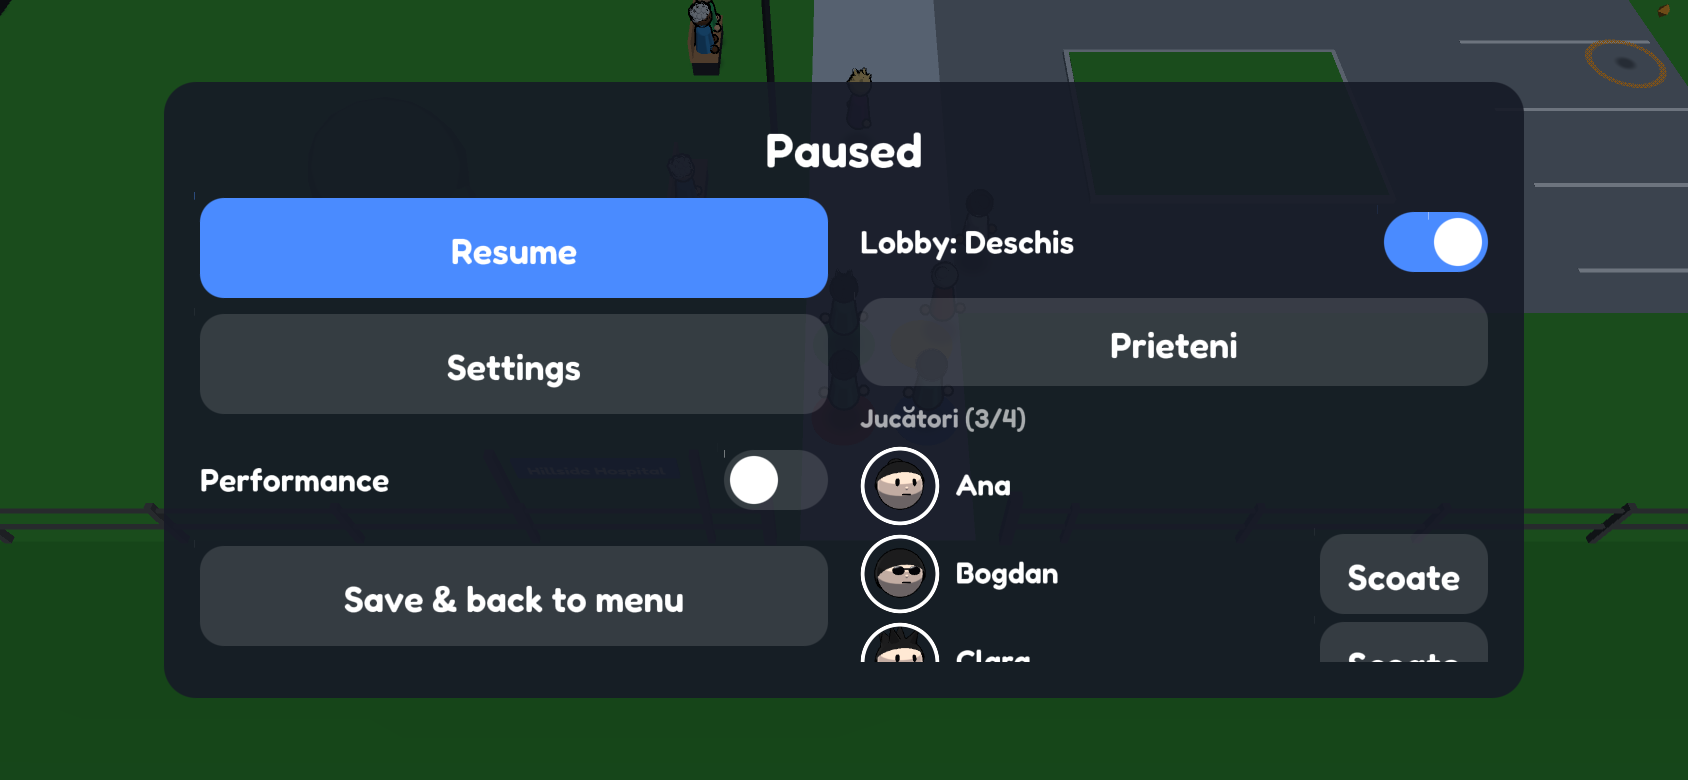
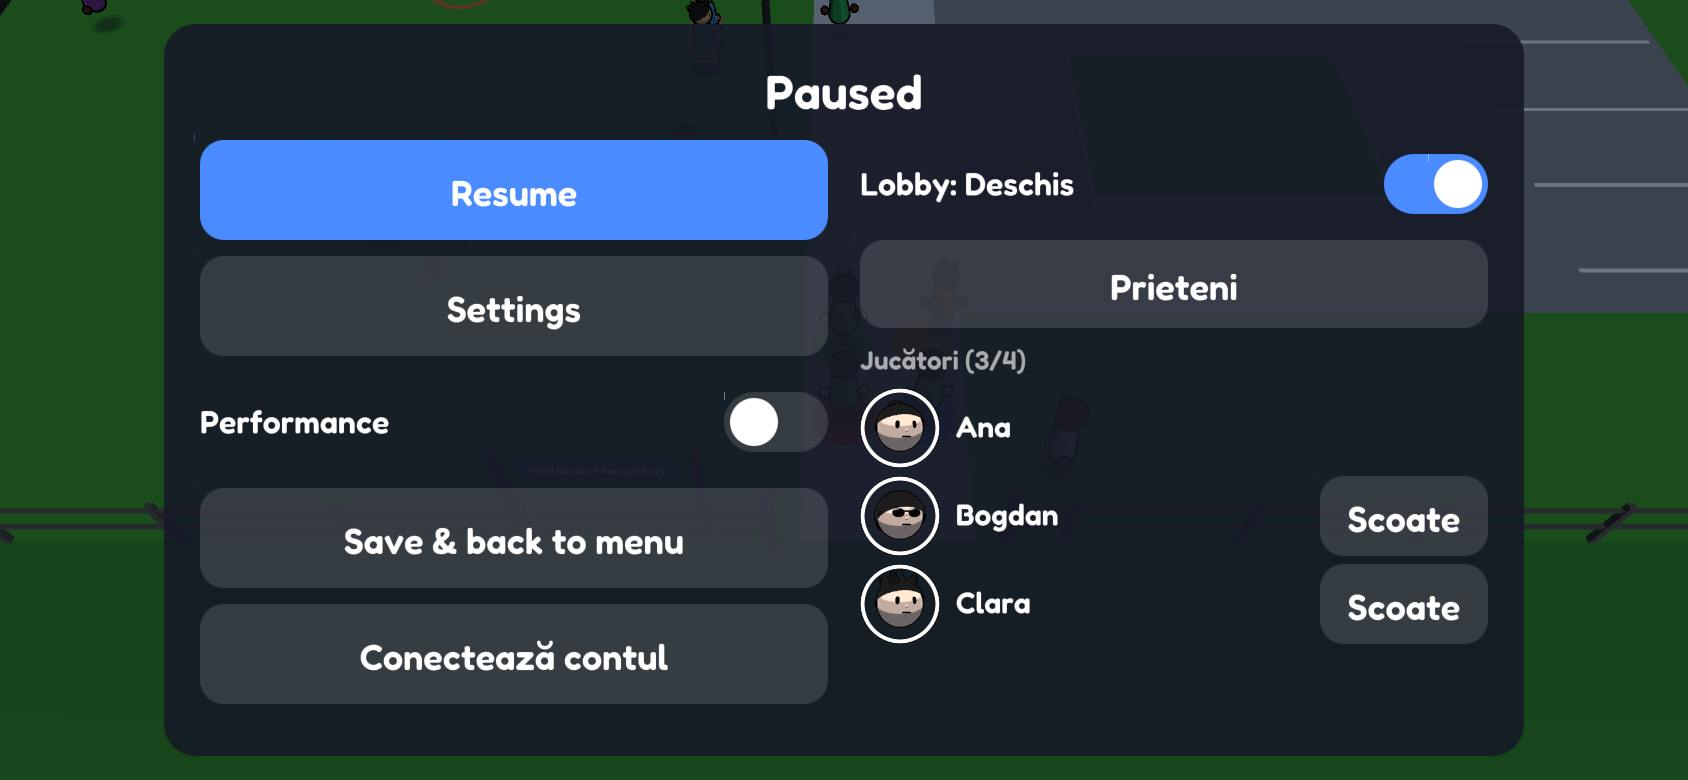
ui: main menu, pause card and Account tab scroll when they do not fit; link screenshots

diff --git a/game/settings_menu.c b/game/settings_menu.c
@@ -204,10 +204,10 @@ static float game_tab(SettingsMenu *m, Ui *ui, GameSettings *s, float x, float y
 
 /* ------------------------------------------------------------------ skin */
 
-static void skin_tab(SettingsMenu *m, Ui *ui, const SettingsAccount *acct, float x, float y, float w, float h,
-                     MenuAction *action)
+/* Returns the height used. */
+static float skin_tab(SettingsMenu *m, Ui *ui, const SettingsAccount *acct, float x, float y, float w, MenuAction *action)
 {
-    (void)h;
+    const float y_start = y;
     float cw = mg_minf(w, 420.0f);
     m->preview_visible = false;
     ui_label(ui, x, y, 13.0f, k_ui_theme.text_dim, str("username_title"));
@@ -267,7 +267,9 @@ static void skin_tab(SettingsMenu *m, Ui *ui, const SettingsAccount *acct, float
     y += 52.0f;
     if (acct->message && acct->message[0]) {
         ui_label(ui, x, y, 13.0f, k_ui_theme.text_dim, acct->message);
+        y += 20.0f;
     }
+    return y - y_start;
 }
 
 /* ------------------------------------------------------------------ panel */
@@ -339,13 +341,15 @@ static void lobby_column(SettingsMenu *m, Ui *ui, MenuAction *action, float x, f
     ui_scroll_end(ui, &m->players_scroll, view, py + off - y);
 }
 
-static MenuAction pause_card(SettingsMenu *m, Ui *ui, GameSettings *s, float w_pt, float h_pt)
+static MenuAction pause_card(SettingsMenu *m, Ui *ui, GameSettings *s, float w_pt, float h_pt, float safe_t, float safe_b)
 {
     MenuAction action = MENU_NONE;
     const float row = 50.0f, pad = 18.0f, gutter = 16.0f;
     const int rows = m->is_guest ? 5 : 4;
-    const float cw = mg_minf(680.0f, w_pt - 48.0f), ch = pad * 2.0f + 40.0f + (float)rows * (row + 8.0f);
-    const float x = (w_pt - cw) * 0.5f, top = (h_pt - ch) * 0.5f;
+    const float room = h_pt - safe_t - safe_b - 12.0f;
+    const float wanted = pad * 2.0f + 40.0f + (float)rows * (row + 8.0f);
+    const float cw = mg_minf(680.0f, w_pt - 48.0f), ch = mg_minf(wanted, room); /* the column scrolls if it does not fit */
+    const float x = (w_pt - cw) * 0.5f, top = safe_t + (h_pt - safe_t - safe_b - ch) * 0.5f;
     ui_block(ui, 0, 0, w_pt, h_pt);
     ui_rect(ui->gfx, ui->font, 0, 0, w_pt, h_pt, ui_rgba(0x00000080));
     ui_panel(ui, x, top, cw, ch);
@@ -357,6 +361,9 @@ static MenuAction pause_card(SettingsMenu *m, Ui *ui, GameSettings *s, float w_p
     if (m->lobby) {
         lobby_column(m, ui, &action, bx + column + gutter, y, column, ch - pad * 2.0f - 40.0f);
     }
+    const float column_top = y, column_view = ch - pad * 2.0f - 40.0f;
+    const float column_off = ui_scroll_begin(ui, &m->card_scroll, bx - 2.0f, column_top, bw + 4.0f, column_view, false);
+    y -= column_off;
     SDL_snprintf(label, sizeof(label), "%s##p_resume", str("resume"));
     if (ui_button(ui, label, bx, y, bw, row, true)) {
         m->open = false;
@@ -386,7 +393,9 @@ static MenuAction pause_card(SettingsMenu *m, Ui *ui, GameSettings *s, float w_p
             m->open = false;
             m->card = false;
         }
+        y += row + 8.0f;
     }
+    ui_scroll_end(ui, &m->card_scroll, column_view, y + column_off - column_top);
     return action;
 }
 
@@ -422,7 +431,7 @@ MenuAction settings_menu(SettingsMenu *m, Ui *ui, GameSettings *s, const Setting
     }
 
     if (m->card) {
-        return pause_card(m, ui, s, w_pt, h_pt);
+        return pause_card(m, ui, s, w_pt, h_pt, safe_t, safe_b);
     }
 
     /* full screen, two columns: back + title + tabs left (35 %), content right (65 %) */
@@ -467,7 +476,9 @@ MenuAction settings_menu(SettingsMenu *m, Ui *ui, GameSettings *s, const Setting
         float used = game_tab(m, ui, s, x, y - off, w, &action);
         ui_scroll_end(ui, &m->game_scroll, h, used);
     } else {
-        skin_tab(m, ui, acct, x, y, w, h, &action);
+        float off = ui_scroll_begin(ui, &m->skin_scroll, x - 8.0f, y - 4.0f, w + 16.0f, h + 8.0f, false);
+        float used = skin_tab(m, ui, acct, x, y - off, w, &action);
+        ui_scroll_end(ui, &m->skin_scroll, h, used);
     }
     if (!m->open) {
         m->editing_name = false;

diff --git a/game/autotest_friends.c b/game/autotest_friends.c
@@ -20,7 +20,7 @@ typedef enum FtOpKind {
     OP_ACCEPT_ALL, OP_FRIENDS, OP_ST, OP_BADGE, OP_NOTICE, OP_PLAYERS, OP_LOBBY, OP_TOKEN, OP_PLAYING, OP_MENU, OP_SLEEP, OP_SHOT,
     OP_ASK_ERR, OP_JOIN_ERR, OP_OPEN_IS, OP_NPC, OP_SKIN, OP_REMEMBER, OP_SKIN_SEEN, OP_DEBUG_PLAYERS, OP_GONE, OP_HEADS, OP_STALE,
     OP_NO_TOGGLE, OP_SET_SEARCH, OP_SEARCH_HAS, OP_CODE_IS, OP_SOLO,
-    OP_LINK, OP_LINK_STATE, OP_UID_SAVE, OP_UID_SAME, OP_UID_DIFF, OP_GUEST, OP_NAME_IS, OP_SEED,
+    OP_DRAG_UP, OP_FE_STATE, OP_LINK, OP_LINK_STATE, OP_UID_SAVE, OP_UID_SAME, OP_UID_DIFF, OP_GUEST, OP_NAME_IS, OP_SEED,
 } FtOpKind;
 
 typedef struct FtOp {
@@ -116,6 +116,11 @@ static const FtOp k_reinstall[] = {
     {OP_READY, NULL, 0}, {OP_CODE_IS, "code_a", 0}, {OP_FRIENDS, NULL, 2}, {OP_END, NULL, 0},
 };
 
+/* a short screen: the menu's last row is reached by dragging the list */
+static const FtOp k_scroll[] = {
+    {OP_READY, NULL, 0}, {OP_FE_STATE, NULL, FE_MAIN_MENU}, SLEEP(1.0), {OP_DRAG_UP, "menurow1", 0}, SLEEP(0.5), TAP("menurow2"), {OP_FE_STATE, NULL, FE_SETTINGS}, {OP_END, NULL, 0},
+};
+
 /* --autotest link: the identity is $MG_LT_EMAIL (see tools/link_test.sh). Starts on Settings. */
 #define LSTATE(x) {OP_LINK_STATE, NULL, x}
 #define START_GUEST {OP_READY, NULL, 0}, {OP_UID_SAVE, NULL, 0}, {OP_GUEST, NULL, 1}
@@ -153,7 +158,7 @@ void ft_init(FriendsTest *t, const char *role)
     t->ops = strcmp(role, "a1") == 0 ? k_a1 : strcmp(role, "a2") == 0 ? k_a2 : strcmp(role, "a3") == 0 ? k_a3 : strcmp(role, "b") == 0 ? k_b
              : strcmp(role, "c") == 0 ? k_c
              : strcmp(role, "l1") == 0 ? k_l1 : strcmp(role, "l2") == 0 ? k_l2 : strcmp(role, "l3") == 0 ? k_l3 : strcmp(role, "l4") == 0 ? k_l4 : strcmp(role, "l5") == 0 ? k_l5
-             : strcmp(role, "solo") == 0 ? k_solo : strcmp(role, "a4") == 0 ? k_reinstall : k_offline;
+             : strcmp(role, "scroll") == 0 ? k_scroll : strcmp(role, "solo") == 0 ? k_solo : strcmp(role, "a4") == 0 ? k_reinstall : k_offline;
 }
 
 static void sync_path(const FriendsTest *t, const char *name, char *out, size_t cap) { SDL_snprintf(out, cap, "%s/%s", t->dir, name); }
@@ -443,6 +448,25 @@ int ft_run(FriendsTest *t, MgApp *app, const AutotestProbe *p, AutotestOut *out,
         break;
     case OP_STALE:
         done = f->stale;
+        break;
+    case OP_FE_STATE:
+        done = p->fe_state == (int)o->n;
+        break;
+    case OP_DRAG_UP: /* press, slide up 90 pt over a dozen frames, release */
+        if (t->finger == 0) {
+            if (ui_find(p->ui, o->s, &t->tx, &t->ty)) {
+                autotest_finger(app, SDL_EVENT_FINGER_DOWN, 902, t->tx, t->ty);
+                t->finger = 1;
+                t->finger_frames = 0;
+            }
+        } else if (++t->finger_frames <= 12) {
+            t->ty -= 7.5f;
+            autotest_finger(app, SDL_EVENT_FINGER_MOTION, 902, t->tx, t->ty);
+        } else {
+            autotest_finger(app, SDL_EVENT_FINGER_UP, 902, t->tx, t->ty);
+            t->finger = 0;
+            done = true;
+        }
         break;
     case OP_LINK: {
 #ifdef MG_TEST_AUTH

diff --git a/game/frontend.c b/game/frontend.c
@@ -377,6 +377,11 @@ static FeAction main_menu(Frontend *f, Ui *ui, MgApp *app, const FrontendCtx *ct
     y += 12.0f;
     FeAction a = FE_NONE;
     int row = 0;
+    /* the rows scroll between the divider and the account line when the screen is short */
+    const float fy = h - mg_maxf(app->safe_bottom, 10.0f) - 22.0f;
+    const float rows_top = y, rows_view = mg_maxf(fy - 10.0f - y, ROW_H);
+    const float rows_off = ui_scroll_begin(ui, &f->menu_scroll, x - 4.0f, rows_top, cw + 8.0f, rows_view, false);
+    y -= rows_off;
     if (menu_row(f, ui, app, row++, str("new_game"), x, y, cw, false, false, NULL)) {
         if (ctx->has_save) {
             f->confirm_new = true;
@@ -404,6 +409,8 @@ static FeAction main_menu(Frontend *f, Ui *ui, MgApp *app, const FrontendCtx *ct
     if (menu_row(f, ui, app, row++, str("settings"), x, y, cw, false, false, NULL)) {
         frontend_go(f, FE_SETTINGS);
     }
+    y += ROW_H;
+    ui_scroll_end(ui, &f->menu_scroll, rows_view, y + rows_off - rows_top);
     /* footer */
     char who[96];
     if (ctx->guest) {
@@ -412,7 +419,6 @@ static FeAction main_menu(Frontend *f, Ui *ui, MgApp *app, const FrontendCtx *ct
         SDL_snprintf(who, sizeof(who), "%s %s " TEXT_BULLET " %s", str("signed_in_as"), ctx->name,
                      SDL_strcmp(ctx->provider, "apple") == 0 ? str("provider_apple") : str("provider_google"));
     }
-    float fy = h - mg_maxf(app->safe_bottom, 10.0f) - 22.0f;
     head_icon_draw(ctx->heads, ui->gfx, ui->font, ctx->skin, ctx->name, x + 13.0f, fy + 8.0f, 26.0f, false);
     text_draw(ui->gfx, ui->font, x + 32.0f, fy, 13.0f, ui_rgba(0xFFFFFF99), who);
     float vw = text_width(ui->font, ctx->version, 13.0f);

diff --git a/game/settings_menu.h b/game/settings_menu.h
@@ -56,7 +56,7 @@ typedef struct SettingsMenu {
     const char *my_name;
     const NetSkin *my_skin;
     bool is_guest;  /* set by the game: the card offers linking */
-    UiScroll players_scroll;
+    UiScroll players_scroll, card_scroll;
     int tab; /* 0 game, 1 skin */
     bool dev_open;
     UiScroll game_scroll, skin_scroll, rows[3];

diff --git a/game/frontend.h b/game/frontend.h
@@ -68,6 +68,7 @@ typedef struct Frontend {
     char name[NET_NAME_LEN];
     bool editing_name;
     bool confirm_new;    /* overwrite dialog */
+    UiScroll menu_scroll; /* the main menu's rows, when the screen is short */
     bool creator_from_settings;
     Creator creator;
     char toast[96];
